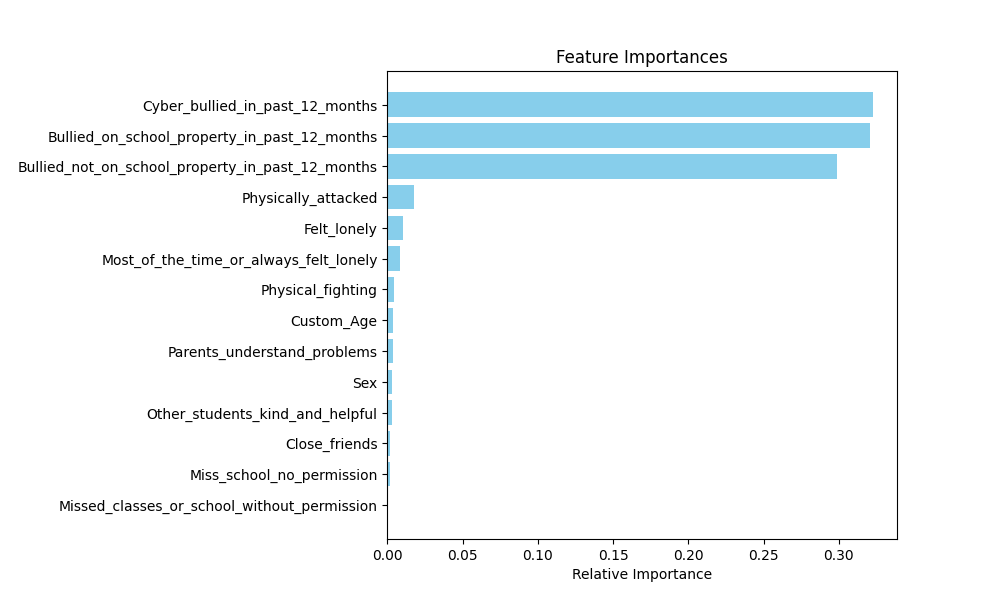
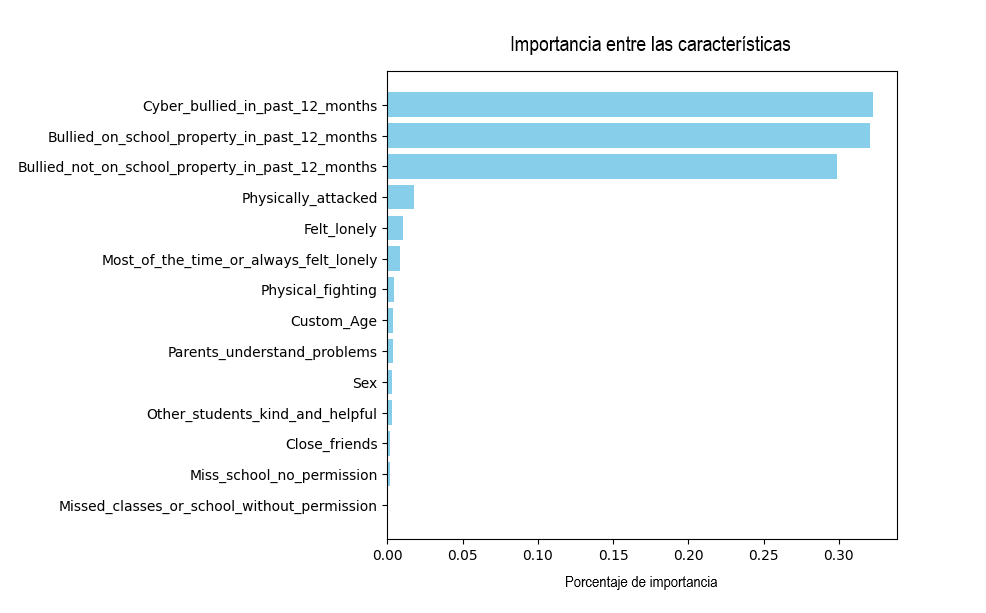
Changed images titles and labels

Changed region(s): [[0.5172, 0.062, 0.8215, 0.124], [0.5781, 0.9299, 0.7302, 0.9608]]

diff --git a/src/eda.py b/src/eda.py
@@ -184,17 +184,18 @@ ax = counts.T.plot(kind='bar', stacked=True, color=['#87CEEB', '#FFA500'])
 
 # Configurar el gráfico
 ax.set_ylabel('Cantidad')
-ax.set_title('Distribución de las features relacionadas al Bullying')
-ax.legend(title='Bullied', labels=['0', '1'])
+ax.set_xlabel('Tipo de Bullying')
+ax.set_title('Distribución de los tipos de Bullying')
+ax.legend(labels=['No', 'Sí'], loc='lower center')
 
 # Abreviar y mostrar los nombres horizontalmente
-abbreviated_labels = ['Bullied', 'On_school', 'Not_on_school', 'Cyber_bullied']
+abbreviated_labels = ['De cualquier tipo', 'En la escuela', 'Fuera de la escuela', 'Ciberbullying']
 ax.set_xticklabels(abbreviated_labels, rotation=0)
 
 plt.savefig('./results/plots/Bullied_Distribution.png')"""
 
 
-"""fig, ax = plt.subplots(figsize=(10, 6))
+fig, ax = plt.subplots(figsize=(10, 6))
 
 distribution = pd.crosstab(df['Sex'], df['Bullied_in_past_12_months'], margins=True, margins_name='Total')
 
@@ -203,8 +204,9 @@ ax = distribution[[0, 1]].plot(kind='bar', stacked=True, color=['#87CEEB', '#FFA
 
 # Configurar el gráfico
 ax.set_ylabel('Cantidad')
-ax.set_title('Distribución de Sex basado en Bullied_in_past_12_months')
-plt.legend(title='Bullied', labels=['0', '1'], loc='lower center')
+ax.set_xlabel('Sexo')
+ax.set_title('Cantidad de estudiantes que sufrieron bullying, de acuerdo a su sexo')
+plt.legend(title='Sufre bullying', labels=['No', 'Sí'], loc='lower center')
 
 abbreviated_labels = ['Femenino', 'Masculino', 'No responde', 'Total']
 ax.set_xticklabels(abbreviated_labels, rotation=0)
@@ -222,11 +224,12 @@ ax = distribution[[0, 1]].plot(kind='bar', stacked=True, color=['#87CEEB', '#FFA
 
 # Configurar el gráfico
 ax.set_ylabel('Cantidad')
-ax.set_title('Distribución de Felt_lonely basado en Bullied_in_past_12_months')
-plt.legend(title='Bullied', labels=['0', '1'], loc='lower center')
+ax.set_xlabel('Se siente solo/a')
+ax.set_title('Cantidad de estudiantes que sufrieron bullying, de acuerdo a si se sentían solos')
+plt.legend(title='Sufre bullying', labels=['No', 'Sí'], loc='lower center')
 
 abbreviated_labels = ['Siempre', 'Casi siempre', 'Nunca', 'Rara vez', 'A veces', 'Total']
 ax.set_xticklabels(abbreviated_labels, rotation=0)
 
 plt.tight_layout()
-plt.savefig('./results/plots/Bullied_Felt_lonely_Distribution.png')"""
+plt.savefig('./results/plots/Bullied_Felt_lonely_Distribution.png')
